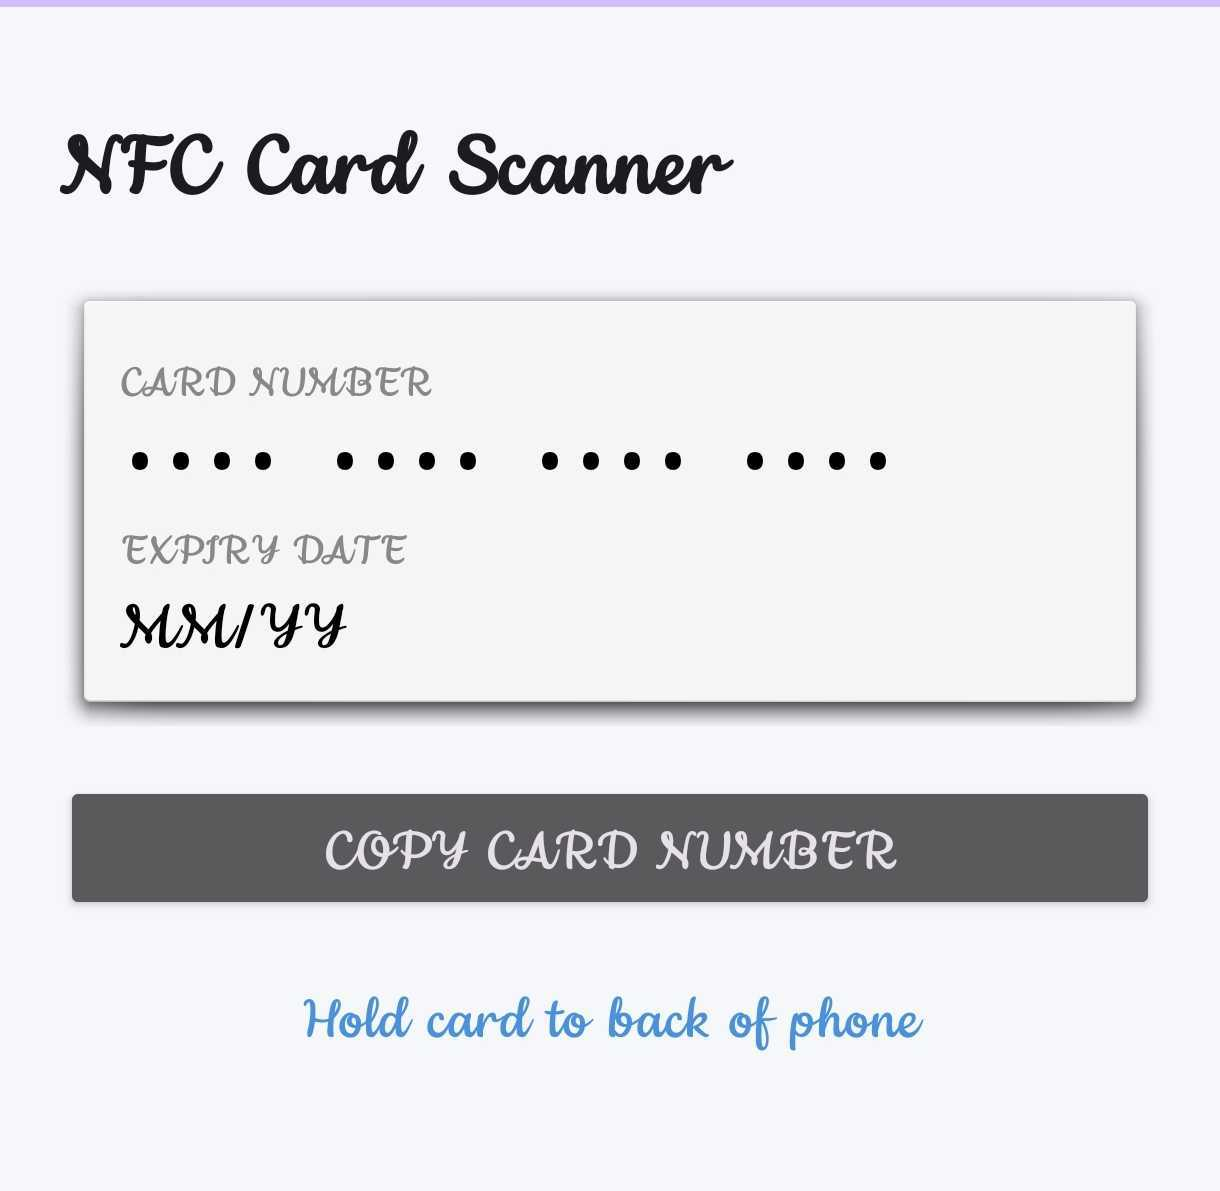
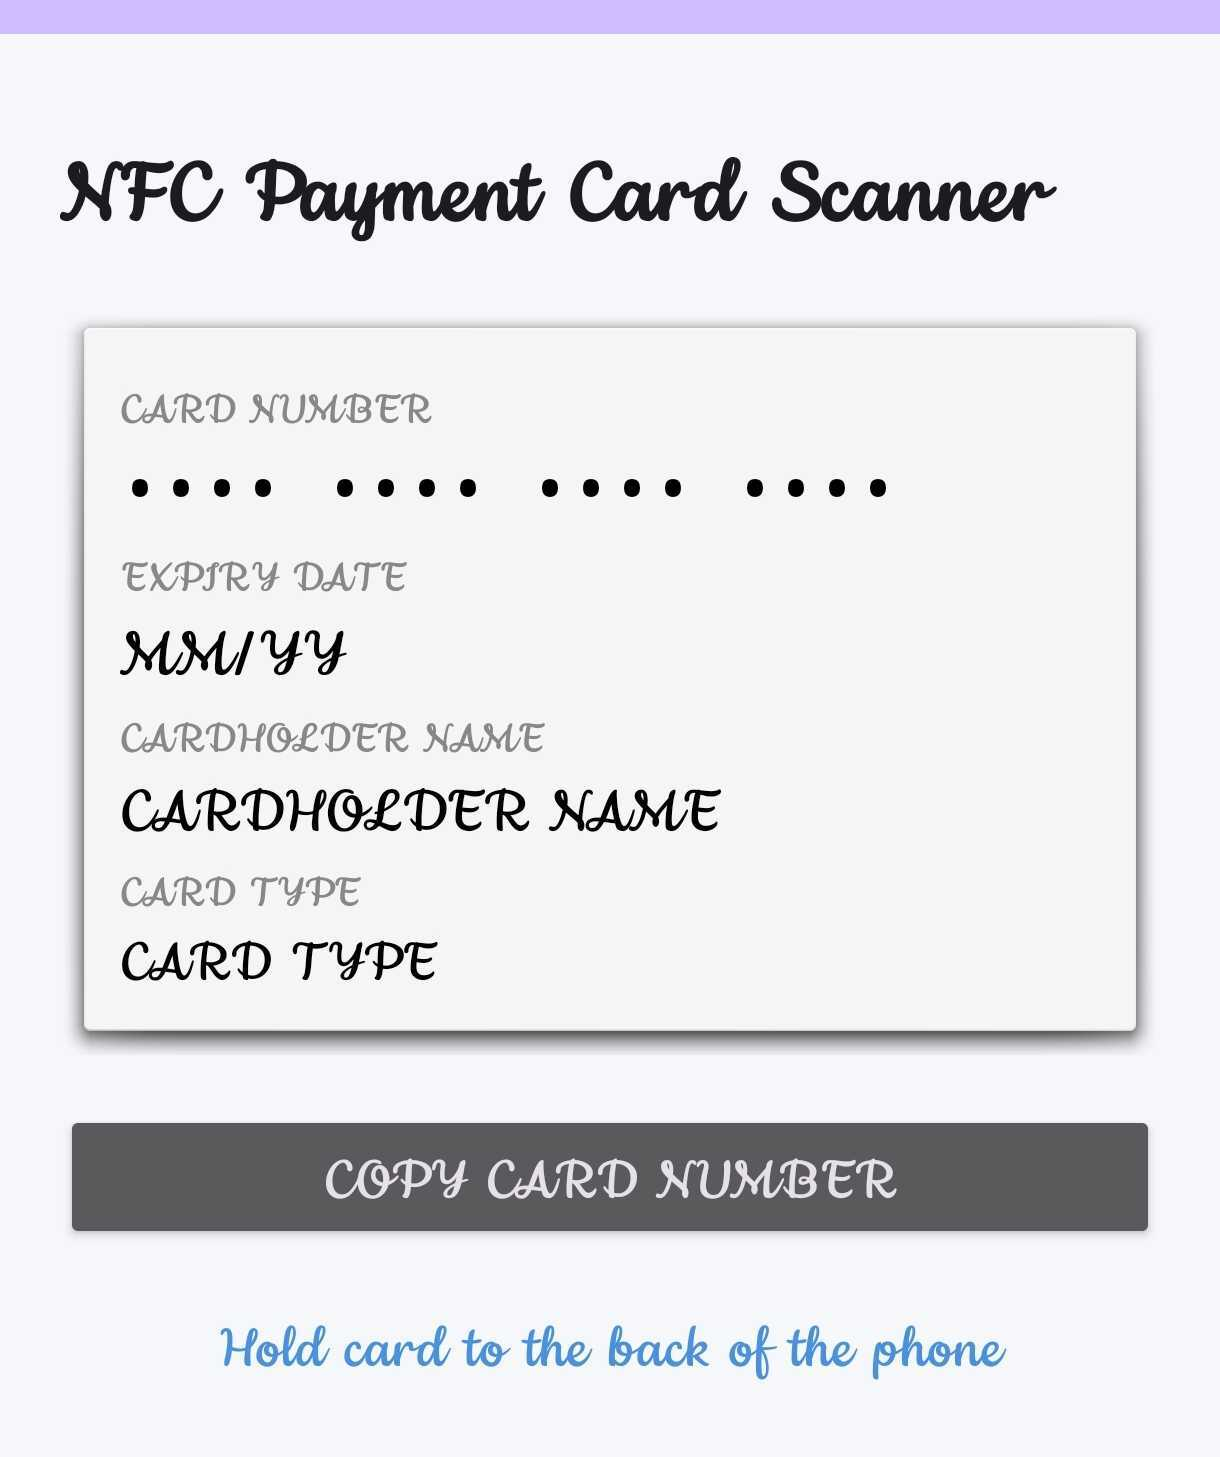
Update to error messages and screenshots

diff --git a/app/src/main/java/com/example/nfcpaymentcardreader/MainActivity.kt b/app/src/main/java/com/example/nfcpaymentcardreader/MainActivity.kt
@@ -48,7 +48,7 @@ class MainActivity : AppCompatActivity(), NfcAdapter.ReaderCallback {
         }
 
         val header = TextView(this).apply {
-            text = "NFC Card Scanner"
+            text = "NFC Payment Card Scanner"
             textSize = 26f
             typeface = Typeface.DEFAULT_BOLD
             setTextColor(Color.parseColor("#1A1C1E"))
@@ -176,7 +176,15 @@ class MainActivity : AppCompatActivity(), NfcAdapter.ReaderCallback {
             runOnUiThread {
                 lastReadNumber = card.cardNumber ?: ""
                 cardNumberText.text = lastReadNumber.chunked(4).joinToString(" ")
-                nameText.text = card.holderFirstname ?: card.holderLastname ?: "Name Not Found"
+
+                // Check if the name is available, otherwise show a friendly message
+                val cardholderName = if (!card.holderFirstname.isNullOrEmpty() || !card.holderLastname.isNullOrEmpty()) {
+                    "${card.holderFirstname ?: ""} ${card.holderLastname ?: ""}".trim()
+                } else {
+                    "Name withheld by issuer"
+                }
+
+                nameText.text = cardholderName
                 typeText.text = card.type.getName() // e.g., VISA, MASTERCARD
 
                 card.expireDate?.let {
@@ -187,6 +195,7 @@ class MainActivity : AppCompatActivity(), NfcAdapter.ReaderCallback {
                 statusText.text = "✅ Details Loaded"
                 statusText.setTextColor(Color.parseColor("#2ECC71"))
             }
+
         } catch (e: Exception) {
             Log.e("NFC", "Read Error", e)
             runOnUiThread {
